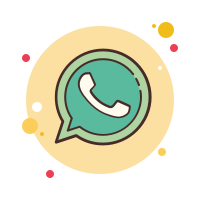
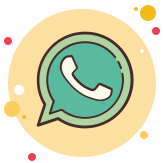
adjustments in the front

diff --git a/app/assets/stylesheets/pages/_ofertas.scss b/app/assets/stylesheets/pages/_ofertas.scss
@@ -78,11 +78,13 @@ body {
   justify-content: space-around;
 }
 
-// .whats {
-//   position: fixed;
-//   bottom: 15px;
-//   right: 15px;
-// }
+.whats img {
+  // position: fixed;
+  // bottom: 15px;
+  // right: 15px;
+  width: 80px;
+  height: 80px;
+}
 
 // “Small Devices” (e.g. tablets) are targeted with @media (min-width: 768px) and (max-width: 991px) { ... }.
 
@@ -232,17 +234,22 @@ a.btn.btn-blue:active {
 }
 
 .anuncio {
+  color: #0f4c73;
   display: flex;
   flex-direction: column;
   margin: 30px auto;
   justify-content: center;
   width: 90%;
-  font-weight: bold;
 
-  h2,
+  h1 {
+    font-weight: bold;
+    margin: 20px auto;
+  }
+
   h4,
   h5,
   p {
     align-self: center;
+    margin: 20px auto;
   }
 }
